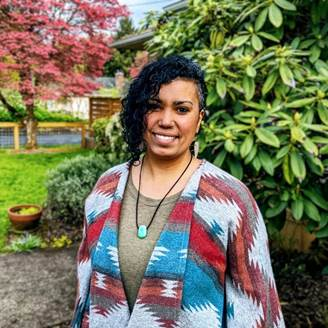
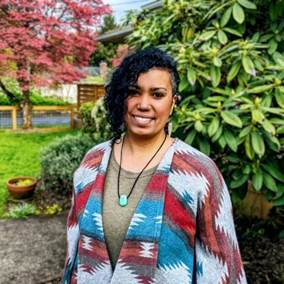
Add files via upload

diff --git a/index.htm b/index.htm
@@ -22,16 +22,16 @@ w\:* {behavior:url(#default#VML);}
  <o:DocumentProperties>
   <o:Author>Michael Koch</o:Author>
   <o:LastAuthor>Michael Koch</o:LastAuthor>
-  <o:Revision>5</o:Revision>
-  <o:TotalTime>8</o:TotalTime>
+  <o:Revision>6</o:Revision>
+  <o:TotalTime>10</o:TotalTime>
   <o:Created>2022-04-28T05:02:00Z</o:Created>
-  <o:LastSaved>2022-04-28T05:20:00Z</o:LastSaved>
+  <o:LastSaved>2022-04-28T15:33:00Z</o:LastSaved>
   <o:Pages>1</o:Pages>
-  <o:Words>260</o:Words>
-  <o:Characters>1487</o:Characters>
+  <o:Words>265</o:Words>
+  <o:Characters>1512</o:Characters>
   <o:Lines>12</o:Lines>
   <o:Paragraphs>3</o:Paragraphs>
-  <o:CharactersWithSpaces>1744</o:CharactersWithSpaces>
+  <o:CharactersWithSpaces>1774</o:CharactersWithSpaces>
   <o:Version>16.00</o:Version>
  </o:DocumentProperties>
  <o:OfficeDocumentSettings>
@@ -846,10 +846,10 @@ word-wrap:break-word'>
    <v:path o:extrusionok="f" gradientshapeok="t" o:connecttype="rect"/>
    <o:lock v:ext="edit" aspectratio="t"/>
   </v:shapetype><v:shape id="Picture_x0020_1" o:spid="_x0000_i1025" type="#_x0000_t75"
-   style='width:224.25pt;height:224.25pt;visibility:visible;mso-wrap-style:square'>
-   <v:imagedata src="index_files/image003.jpg" o:title=""/>
-  </v:shape><![endif]--><![if !vml]><img width=299 height=299
-  src="index_files/image004.jpg" v:shapes="Picture_x0020_1"><![endif]></span></p>
+   style='width:213pt;height:213pt;visibility:visible;mso-wrap-style:square'>
+   <v:imagedata src="index_files/image001.jpg" o:title=""/>
+  </v:shape><![endif]--><![if !vml]><img width=284 height=284
+  src="index_files/image002.jpg" v:shapes="Picture_x0020_1"><![endif]></span></p>
   <p class=MsoNormal align=center style='text-align:center'><o:p>&nbsp;</o:p></p>
   <p class=MsoNormal align=center style='text-align:center'><span
   style='color:windowtext'><a href="https://forms.gle/Bo2GPDRX1DgFrSF26"><span
@@ -857,9 +857,10 @@ word-wrap:break-word'>
   <p class=MsoNormal align=center style='text-align:center'><span
   style='color:windowtext'><o:p>&nbsp;</o:p></span></p>
   <p class=MsoNormal align=center style='text-align:center'><span
-  style='color:windowtext'><a href="https://www.instagram.com/colibri.sol/"><span
+  style='color:windowtext'><a
+  href="https://www.linkedin.com/in/veronica-vargas-lpc-she-her-hers-805ba76/"><span
   class=SpellE><span style='color:windowtext;text-decoration:none;text-underline:
-  none'>instagram</span></span></a><o:p></o:p></span></p>
+  none'>linkedin</span></span></a><o:p></o:p></span></p>
   <p class=MsoNormal align=center style='text-align:center'><o:p>&nbsp;</o:p></p>
   <p class=MsoNormal align=center style='text-align:center'><span
   style='color:windowtext'><a href="https://account.venmo.com/u/colibrisol"><span
@@ -869,24 +870,24 @@ word-wrap:break-word'>
   </td>
   <td width=612 valign=top style='width:458.85pt;padding:0in 5.4pt 0in 5.4pt'>
   <p class=MsoNormal style='background:white'><span style='font-family:"Arial",sans-serif;
-  mso-fareast-font-family:"Times New Roman";color:#222222'>Veronica journeys alongside
-  folks in their path towards healing, harmony, and contentment. She finds
-  beauty in witnessing the unfolding of human potential, and cultivation of
-  meaning. Her formal training is in counseling psychology with an emphasis in
-  depth-psychotherapy. Depth-psychotherapy can be defined as a
+  mso-fareast-font-family:"Times New Roman";color:#222222'>Veronica journeys
+  alongside folks in their path towards healing, harmony, and contentment. She
+  finds beauty in witnessing the unfolding of human potential, and cultivation
+  of meaning. Her formal training is in counseling psychology with an emphasis
+  in depth-psychotherapy. Depth-psychotherapy can be defined as a
   holistic&nbsp;approach that examines all aspects of a person's life,
   including dreams, art, fantasies, philosophies, and conscious thoughts. She
-  was heavily influenced by the work of Swiss psychiatrist, Carl Gustav Jung. In
-  her work as a licensed <span class=GramE>psychotherapist</span> she assesses
-  the whole person or family system by looking at relational and cultural
-  systems; spirituality; personal and intergenerational trauma; systems of
-  oppression; personal values and how they are or aren't reflected
+  was heavily influenced by the work of Swiss psychiatrist, Carl Gustav Jung.
+  In her work as a licensed <span class=GramE>psychotherapist</span> she
+  assesses the whole person or family system by looking at relational and
+  cultural systems; spirituality; personal and intergenerational trauma;
+  systems of oppression; personal values and how they are or aren't reflected
   authentically in the person's life.&nbsp;<o:p></o:p></span></p>
   <p class=MsoNormal style='background:white'><span style='font-family:"Arial",sans-serif;
   mso-fareast-font-family:"Times New Roman";color:#222222'><o:p>&nbsp;</o:p></span></p>
   <p class=MsoNormal style='background:white'><span style='font-family:"Arial",sans-serif;
-  mso-fareast-font-family:"Times New Roman";color:#222222'>She has a private
-  practice in Portland, Oregon where she offers psychotherapy, dream work, and
+  mso-fareast-font-family:"Times New Roman";color:#222222'>She has a private practice
+  in Portland, Oregon where she offers psychotherapy, dream work, and
   psychedelic integration. She is also the Director of Clinical Services for a
   mental health program through a non-profit organization called Parenting <span
   class=GramE>With</span> Intent.&nbsp;<o:p></o:p></span></p>
